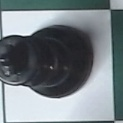
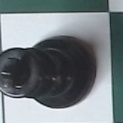
finished collecting training data for black king

diff --git a/brain.py b/brain.py
@@ -59,7 +59,7 @@ def initBoard():
     squares = []
     counter = 1
     coordinates = [
-        ((500, 623), (22, 136)), ((510, 633), (139, 253)), ((524, 647), (252, 366)), ((525, 648), (364, 478)),
+        ((500, 623), (22, 136)), ((510, 633), (139, 253)), ((514, 637), (252, 366)), ((525, 648), (364, 478)),
         ((529, 652), (472, 586)), ((529, 652), (580, 694)), ((530, 653), (690, 804)), ((533, 656), (799, 913)),
         ((628, 751), (24, 138)), ((630, 753), (137, 251)), ((635, 758), (251, 365)), ((635, 758), (366, 480)),
         ((640, 763), (474, 588)), ((640, 763), (584, 698)), ((643, 766), (692, 806)), ((643, 766), (799, 913)),
@@ -212,7 +212,7 @@ def main():
                     square.saveImage(squares)
                 return
                 '''
-                collect2PData(board, squares, 63, 63, "empty", "square", 8, 8)
+                collect2PData(board, squares, 63, 63, "black", "king", 8, 8)
                 #collectData(board, squares)
                 cv2.imshow("Frame", squares[22:136, 517:640])
                 if cv2.waitKey(1) & 0xFF == ord('q'):
